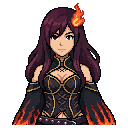
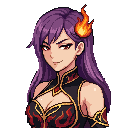
art(portrait): Lecliss 像素半身像定版 + 小框立绘接入 v187
- 双重锁法(正面母图 style_images + 文字提示词)生成, 身份+傲娇姿态过关
- charAvatar 优先用 c.portrait(像素半身像), 无则退 c.art; 全小框(佣兵/编队/招募/图鉴)统一
- 大立绘框(r2-splash)保持原样(视频/母图), 仅小框换像素半身
- .char-portrait-px: cover + 顶部对齐, 脸不被裁
- ASSET_VER 186→187

Claude-Session: https://claude.ai/code/session_01QGRynvBqtept4T7sdccom5

diff --git a/game.html b/game.html
@@ -5,14 +5,14 @@
   <meta name="viewport" content="width=device-width, initial-scale=1.0, maximum-scale=1.0, user-scalable=no, viewport-fit=cover">
   <title>棕色尘埃 2 · Brown Dust 2</title>
   <!-- PWA / 添加到主屏幕（iOS 全屏关键） -->
-  <link rel="manifest" href="manifest.webmanifest?v=186">
+  <link rel="manifest" href="manifest.webmanifest?v=187">
   <meta name="theme-color" content="#1a1422">
   <meta name="mobile-web-app-capable" content="yes">
   <meta name="apple-mobile-web-app-capable" content="yes">
   <meta name="apple-mobile-web-app-status-bar-style" content="black-translucent">
   <meta name="apple-mobile-web-app-title" content="棕色尘埃2">
-  <link rel="apple-touch-icon" href="icons/apple-touch-icon.png?v=186">
-  <link rel="icon" type="image/png" href="icons/icon-192.png?v=186">
+  <link rel="apple-touch-icon" href="icons/apple-touch-icon.png?v=187">
+  <link rel="icon" type="image/png" href="icons/icon-192.png?v=187">
   <style>
 /* ============================================================
    棕色尘埃 2 风格 UI — 暗色奇幻风格
@@ -2413,6 +2413,9 @@ button.ac-circle:active { transform: scale(.92); }
 .act-btn:active { transform: scale(.94); }
 /* ============================================================= */
 
+/* 像素半身像(小框立绘): cover + 顶部对齐, 保证脸不被裁 */
+.char-img.char-portrait-px { object-fit: cover; object-position: top center; image-rendering: pixelated; }
+
 </style>
 </head>
 <body>
@@ -2420,24 +2423,24 @@ button.ac-circle:active { transform: scale(.92); }
     <!-- 顶部栏：玩家信息 + 资源 + 系统 -->
     <header id="topbar">
       <button id="topbar-profile" class="profile-chip" title="玩家资料">
-        <span class="pc-avatar"><img src="art/01_splash/lecliss_avatar.png?v=186" alt="" onerror="this.outerHTML='🎖'"></span>
+        <span class="pc-avatar"><img src="art/01_splash/lecliss_avatar.png?v=187" alt="" onerror="this.outerHTML='🎖'"></span>
         <span class="pc-info">
           <span class="pc-name" id="pc-name">指挥官</span>
           <span class="pc-sub">Lv.<span id="pc-lv">1</span> · ⚔<span id="pc-pow">0</span></span>
         </span>
       </button>
       <div class="resources">
-        <div class="res" title="金币"><span class="res-icon"><img class="px-ico-sm" src="art/05_pixellab/ui/icons/coin.png?v=186" alt="金"></span><span id="res-gold">0</span></div>
-        <div class="res" title="宝石"><span class="res-icon"><img class="px-ico-sm" src="art/05_pixellab/ui/icons/gem.png?v=186" alt="钻"></span><span id="res-gem">0</span></div>
-        <div class="res" title="觉醒石"><span class="res-icon"><img class="px-ico-sm" src="art/05_pixellab/ui/icons/awaken.png?v=186" alt="石"></span><span id="res-stone">0</span></div>
-        <div class="res" title="体力"><span class="res-icon"><img class="px-ico-sm" src="art/05_pixellab/ui/icons/stamina.png?v=186" alt="力"></span><span id="res-stam">0</span></div>
+        <div class="res" title="金币"><span class="res-icon"><img class="px-ico-sm" src="art/05_pixellab/ui/icons/coin.png?v=187" alt="金"></span><span id="res-gold">0</span></div>
+        <div class="res" title="宝石"><span class="res-icon"><img class="px-ico-sm" src="art/05_pixellab/ui/icons/gem.png?v=187" alt="钻"></span><span id="res-gem">0</span></div>
+        <div class="res" title="觉醒石"><span class="res-icon"><img class="px-ico-sm" src="art/05_pixellab/ui/icons/awaken.png?v=187" alt="石"></span><span id="res-stone">0</span></div>
+        <div class="res" title="体力"><span class="res-icon"><img class="px-ico-sm" src="art/05_pixellab/ui/icons/stamina.png?v=187" alt="力"></span><span id="res-stam">0</span></div>
       </div>
       <div class="topbar-sys">
-        <button id="btn-notice" class="ghost-btn" title="公告"><img class="px-ico-sys" src="art/05_pixellab/ui/icons/notice.png?v=186" alt="公告"></button>
-        <button id="btn-mail" class="ghost-btn" title="邮件"><span class="dot-wrap"><img class="px-ico-sys" src="art/05_pixellab/ui/icons/mail.png?v=186" alt="邮件"><span id="mail-dot" class="red-dot" style="display:none;"></span></span></button>
-        <button id="btn-settings" class="ghost-btn" title="设置"><img class="px-ico-sys" src="art/05_pixellab/ui/icons/settings.png?v=186" alt="设置"></button>
-        <button id="btn-fullscreen" class="ghost-btn" title="全屏"><img class="px-ico-sys" src="art/05_pixellab/ui/icons/fullscreen.png?v=186" alt="全屏"></button>
-        <button id="btn-mute" class="ghost-btn" title="音效开关"><img class="px-ico-sys" src="art/05_pixellab/ui/icons/sound.png?v=186" alt="音效"></button>
+        <button id="btn-notice" class="ghost-btn" title="公告"><img class="px-ico-sys" src="art/05_pixellab/ui/icons/notice.png?v=187" alt="公告"></button>
+        <button id="btn-mail" class="ghost-btn" title="邮件"><span class="dot-wrap"><img class="px-ico-sys" src="art/05_pixellab/ui/icons/mail.png?v=187" alt="邮件"><span id="mail-dot" class="red-dot" style="display:none;"></span></span></button>
+        <button id="btn-settings" class="ghost-btn" title="设置"><img class="px-ico-sys" src="art/05_pixellab/ui/icons/settings.png?v=187" alt="设置"></button>
+        <button id="btn-fullscreen" class="ghost-btn" title="全屏"><img class="px-ico-sys" src="art/05_pixellab/ui/icons/fullscreen.png?v=187" alt="全屏"></button>
+        <button id="btn-mute" class="ghost-btn" title="音效开关"><img class="px-ico-sys" src="art/05_pixellab/ui/icons/sound.png?v=187" alt="音效"></button>
         <button id="btn-reset" class="ghost-btn" title="重置存档" style="display:none;">↺</button>
       </div>
     </header>
@@ -2470,7 +2473,7 @@ button.ac-circle:active { transform: scale(.92); }
     </div>
   </div>
 
-  <script>window.ASSET_VER = '186';</script>
+  <script>window.ASSET_VER = '187';</script>
 <script>
 // ============================================================
 //  音频系统（纯 Web Audio 实时合成，无需任何音频素材文件）
@@ -2748,6 +2751,7 @@ const CHARACTERS = {
     grow: { hp: 78, atk: 16, def: 5 },
     skills: ['fireball', 'inferno'],
     art: 'art/01_splash/lecliss_bust.png',   // 半身像（佣兵/编队/招募小框）
+    portrait: 'art/05_pixellab/ui/portraits/lecliss.png',   // 像素半身像（小框立绘）
     desc: '操纵烈焰的强大魔女，擅长对敌方全体造成毁灭性火焰伤害。',
   },
   justia: {
@@ -6797,10 +6801,13 @@ const UI = {
   charAvatar(charId) {
     const c = window.GameData.CHARACTERS[charId];
     const clsIcon = window.GameData.CLASSES[c.cls].icon;  // 职业像素图标 (img html)
-    if (c.art) {
+    // 小框立绘优先用像素半身像(portrait)；无则退回 art；再退职业图标
+    const src = c.portrait || c.art;
+    if (src) {
       // 图片优先：加载失败时把 src 换成职业像素图标(不能往属性里塞 img 标签)
       const fb = `art/05_pixellab/ui/icons/cls_${c.cls}.png`;
-      return `<img class="char-img" src="${c.art}" alt="${c.name}" loading="lazy"
+      const cls = c.portrait ? 'char-img char-portrait-px' : 'char-img';
+      return `<img class="${cls}" src="${src}" alt="${c.name}" loading="lazy"
         onerror="this.onerror=null;this.src='${fb}';this.classList.add('cls-fallback');">`;
     }
     return clsIcon;

diff --git a/index.html b/index.html
@@ -5,39 +5,39 @@
   <meta name="viewport" content="width=device-width, initial-scale=1.0, maximum-scale=1.0, user-scalable=no, viewport-fit=cover">
   <title>棕色尘埃 2 · Brown Dust 2</title>
   <!-- PWA / 添加到主屏幕（iOS 全屏关键） -->
-  <link rel="manifest" href="manifest.webmanifest?v=186">
+  <link rel="manifest" href="manifest.webmanifest?v=187">
   <meta name="theme-color" content="#1a1422">
   <meta name="mobile-web-app-capable" content="yes">
   <meta name="apple-mobile-web-app-capable" content="yes">
   <meta name="apple-mobile-web-app-status-bar-style" content="black-translucent">
   <meta name="apple-mobile-web-app-title" content="棕色尘埃2">
-  <link rel="apple-touch-icon" href="icons/apple-touch-icon.png?v=186">
-  <link rel="icon" type="image/png" href="icons/icon-192.png?v=186">
-  <link rel="stylesheet" href="css/style.css?v=186">
+  <link rel="apple-touch-icon" href="icons/apple-touch-icon.png?v=187">
+  <link rel="icon" type="image/png" href="icons/icon-192.png?v=187">
+  <link rel="stylesheet" href="css/style.css?v=187">
 </head>
 <body>
   <div id="app">
     <!-- 顶部栏：玩家信息 + 资源 + 系统 -->
     <header id="topbar">
       <button id="topbar-profile" class="profile-chip" title="玩家资料">
-        <span class="pc-avatar"><img src="art/01_splash/lecliss_avatar.png?v=186" alt="" onerror="this.outerHTML='🎖'"></span>
+        <span class="pc-avatar"><img src="art/01_splash/lecliss_avatar.png?v=187" alt="" onerror="this.outerHTML='🎖'"></span>
         <span class="pc-info">
           <span class="pc-name" id="pc-name">指挥官</span>
           <span class="pc-sub">Lv.<span id="pc-lv">1</span> · ⚔<span id="pc-pow">0</span></span>
         </span>
       </button>
       <div class="resources">
-        <div class="res" title="金币"><span class="res-icon"><img class="px-ico-sm" src="art/05_pixellab/ui/icons/coin.png?v=186" alt="金"></span><span id="res-gold">0</span></div>
-        <div class="res" title="宝石"><span class="res-icon"><img class="px-ico-sm" src="art/05_pixellab/ui/icons/gem.png?v=186" alt="钻"></span><span id="res-gem">0</span></div>
-        <div class="res" title="觉醒石"><span class="res-icon"><img class="px-ico-sm" src="art/05_pixellab/ui/icons/awaken.png?v=186" alt="石"></span><span id="res-stone">0</span></div>
-        <div class="res" title="体力"><span class="res-icon"><img class="px-ico-sm" src="art/05_pixellab/ui/icons/stamina.png?v=186" alt="力"></span><span id="res-stam">0</span></div>
+        <div class="res" title="金币"><span class="res-icon"><img class="px-ico-sm" src="art/05_pixellab/ui/icons/coin.png?v=187" alt="金"></span><span id="res-gold">0</span></div>
+        <div class="res" title="宝石"><span class="res-icon"><img class="px-ico-sm" src="art/05_pixellab/ui/icons/gem.png?v=187" alt="钻"></span><span id="res-gem">0</span></div>
+        <div class="res" title="觉醒石"><span class="res-icon"><img class="px-ico-sm" src="art/05_pixellab/ui/icons/awaken.png?v=187" alt="石"></span><span id="res-stone">0</span></div>
+        <div class="res" title="体力"><span class="res-icon"><img class="px-ico-sm" src="art/05_pixellab/ui/icons/stamina.png?v=187" alt="力"></span><span id="res-stam">0</span></div>
       </div>
       <div class="topbar-sys">
-        <button id="btn-notice" class="ghost-btn" title="公告"><img class="px-ico-sys" src="art/05_pixellab/ui/icons/notice.png?v=186" alt="公告"></button>
-        <button id="btn-mail" class="ghost-btn" title="邮件"><span class="dot-wrap"><img class="px-ico-sys" src="art/05_pixellab/ui/icons/mail.png?v=186" alt="邮件"><span id="mail-dot" class="red-dot" style="display:none;"></span></span></button>
-        <button id="btn-settings" class="ghost-btn" title="设置"><img class="px-ico-sys" src="art/05_pixellab/ui/icons/settings.png?v=186" alt="设置"></button>
-        <button id="btn-fullscreen" class="ghost-btn" title="全屏"><img class="px-ico-sys" src="art/05_pixellab/ui/icons/fullscreen.png?v=186" alt="全屏"></button>
-        <button id="btn-mute" class="ghost-btn" title="音效开关"><img class="px-ico-sys" src="art/05_pixellab/ui/icons/sound.png?v=186" alt="音效"></button>
+        <button id="btn-notice" class="ghost-btn" title="公告"><img class="px-ico-sys" src="art/05_pixellab/ui/icons/notice.png?v=187" alt="公告"></button>
+        <button id="btn-mail" class="ghost-btn" title="邮件"><span class="dot-wrap"><img class="px-ico-sys" src="art/05_pixellab/ui/icons/mail.png?v=187" alt="邮件"><span id="mail-dot" class="red-dot" style="display:none;"></span></span></button>
+        <button id="btn-settings" class="ghost-btn" title="设置"><img class="px-ico-sys" src="art/05_pixellab/ui/icons/settings.png?v=187" alt="设置"></button>
+        <button id="btn-fullscreen" class="ghost-btn" title="全屏"><img class="px-ico-sys" src="art/05_pixellab/ui/icons/fullscreen.png?v=187" alt="全屏"></button>
+        <button id="btn-mute" class="ghost-btn" title="音效开关"><img class="px-ico-sys" src="art/05_pixellab/ui/icons/sound.png?v=187" alt="音效"></button>
         <button id="btn-reset" class="ghost-btn" title="重置存档" style="display:none;">↺</button>
       </div>
     </header>
@@ -70,20 +70,20 @@
     </div>
   </div>
 
-  <script>window.ASSET_VER = '186';</script>
-  <script src="js/audio.js?v=186"></script>
-  <script src="js/data.js?v=186"></script>
-  <script src="js/balance.js?v=186"></script>
-  <script src="js/budget.js?v=186"></script>
-  <script src="js/lore.js?v=186"></script>
-  <script src="js/gear.js?v=186"></script>
-  <script src="js/costumes.js?v=186"></script>
-  <script src="js/game.js?v=186"></script>
-  <script src="js/battle.js?v=186"></script>
-  <script src="js/ui.js?v=186"></script>
-  <script src="js/story.js?v=186"></script>
-  <script src="js/comic.js?v=186"></script>
-  <script src="js/world.js?v=186"></script>
-  <script src="js/main.js?v=186"></script>
+  <script>window.ASSET_VER = '187';</script>
+  <script src="js/audio.js?v=187"></script>
+  <script src="js/data.js?v=187"></script>
+  <script src="js/balance.js?v=187"></script>
+  <script src="js/budget.js?v=187"></script>
+  <script src="js/lore.js?v=187"></script>
+  <script src="js/gear.js?v=187"></script>
+  <script src="js/costumes.js?v=187"></script>
+  <script src="js/game.js?v=187"></script>
+  <script src="js/battle.js?v=187"></script>
+  <script src="js/ui.js?v=187"></script>
+  <script src="js/story.js?v=187"></script>
+  <script src="js/comic.js?v=187"></script>
+  <script src="js/world.js?v=187"></script>
+  <script src="js/main.js?v=187"></script>
 </body>
 </html>

diff --git a/js/ui.js b/js/ui.js
@@ -76,10 +76,13 @@ const UI = {
   charAvatar(charId) {
     const c = window.GameData.CHARACTERS[charId];
     const clsIcon = window.GameData.CLASSES[c.cls].icon;  // 职业像素图标 (img html)
-    if (c.art) {
+    // 小框立绘优先用像素半身像(portrait)；无则退回 art；再退职业图标
+    const src = c.portrait || c.art;
+    if (src) {
       // 图片优先：加载失败时把 src 换成职业像素图标(不能往属性里塞 img 标签)
       const fb = `art/05_pixellab/ui/icons/cls_${c.cls}.png`;
-      return `<img class="char-img" src="${c.art}" alt="${c.name}" loading="lazy"
+      const cls = c.portrait ? 'char-img char-portrait-px' : 'char-img';
+      return `<img class="${cls}" src="${src}" alt="${c.name}" loading="lazy"
         onerror="this.onerror=null;this.src='${fb}';this.classList.add('cls-fallback');">`;
     }
     return clsIcon;

diff --git a/js/data.js b/js/data.js
@@ -79,6 +79,7 @@ const CHARACTERS = {
     grow: { hp: 78, atk: 16, def: 5 },
     skills: ['fireball', 'inferno'],
     art: 'art/01_splash/lecliss_bust.png',   // 半身像（佣兵/编队/招募小框）
+    portrait: 'art/05_pixellab/ui/portraits/lecliss.png',   // 像素半身像（小框立绘）
     desc: '操纵烈焰的强大魔女，擅长对敌方全体造成毁灭性火焰伤害。',
   },
   justia: {

diff --git a/css/style.css b/css/style.css
@@ -2396,3 +2396,6 @@ button.ac-circle:active { transform: scale(.92); }
 }
 .act-btn:active { transform: scale(.94); }
 /* ============================================================= */
+
+/* 像素半身像(小框立绘): cover + 顶部对齐, 保证脸不被裁 */
+.char-img.char-portrait-px { object-fit: cover; object-position: top center; image-rendering: pixelated; }
